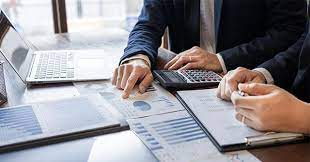
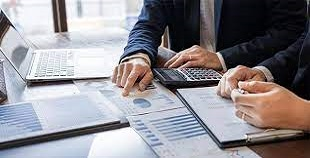
nnn

diff --git a/src/contenido/components/carrousel/CarrouselComponent.jsx b/src/contenido/components/carrousel/CarrouselComponent.jsx
@@ -1,6 +1,6 @@
 import React from 'react'
 import Carousel from 'react-bootstrap/Carousel';
-import './carrousel.css';
+
 
 export const CarrouselComponent = () => {
   return (
@@ -32,7 +32,7 @@ export const CarrouselComponent = () => {
     <Carousel.Item>
       <img
         className="d-block w-100"
-        src="https://github.com/leofa741/contadoraturdera/blob/master/src/assets/images/bannercont1.webp?raw=true"
+        src="https://github.com/leofa741/contadoraturdera/blob/master/src/assets/images/gmasoc.jpg?raw=true"
         alt="Third slide"
       />
 
